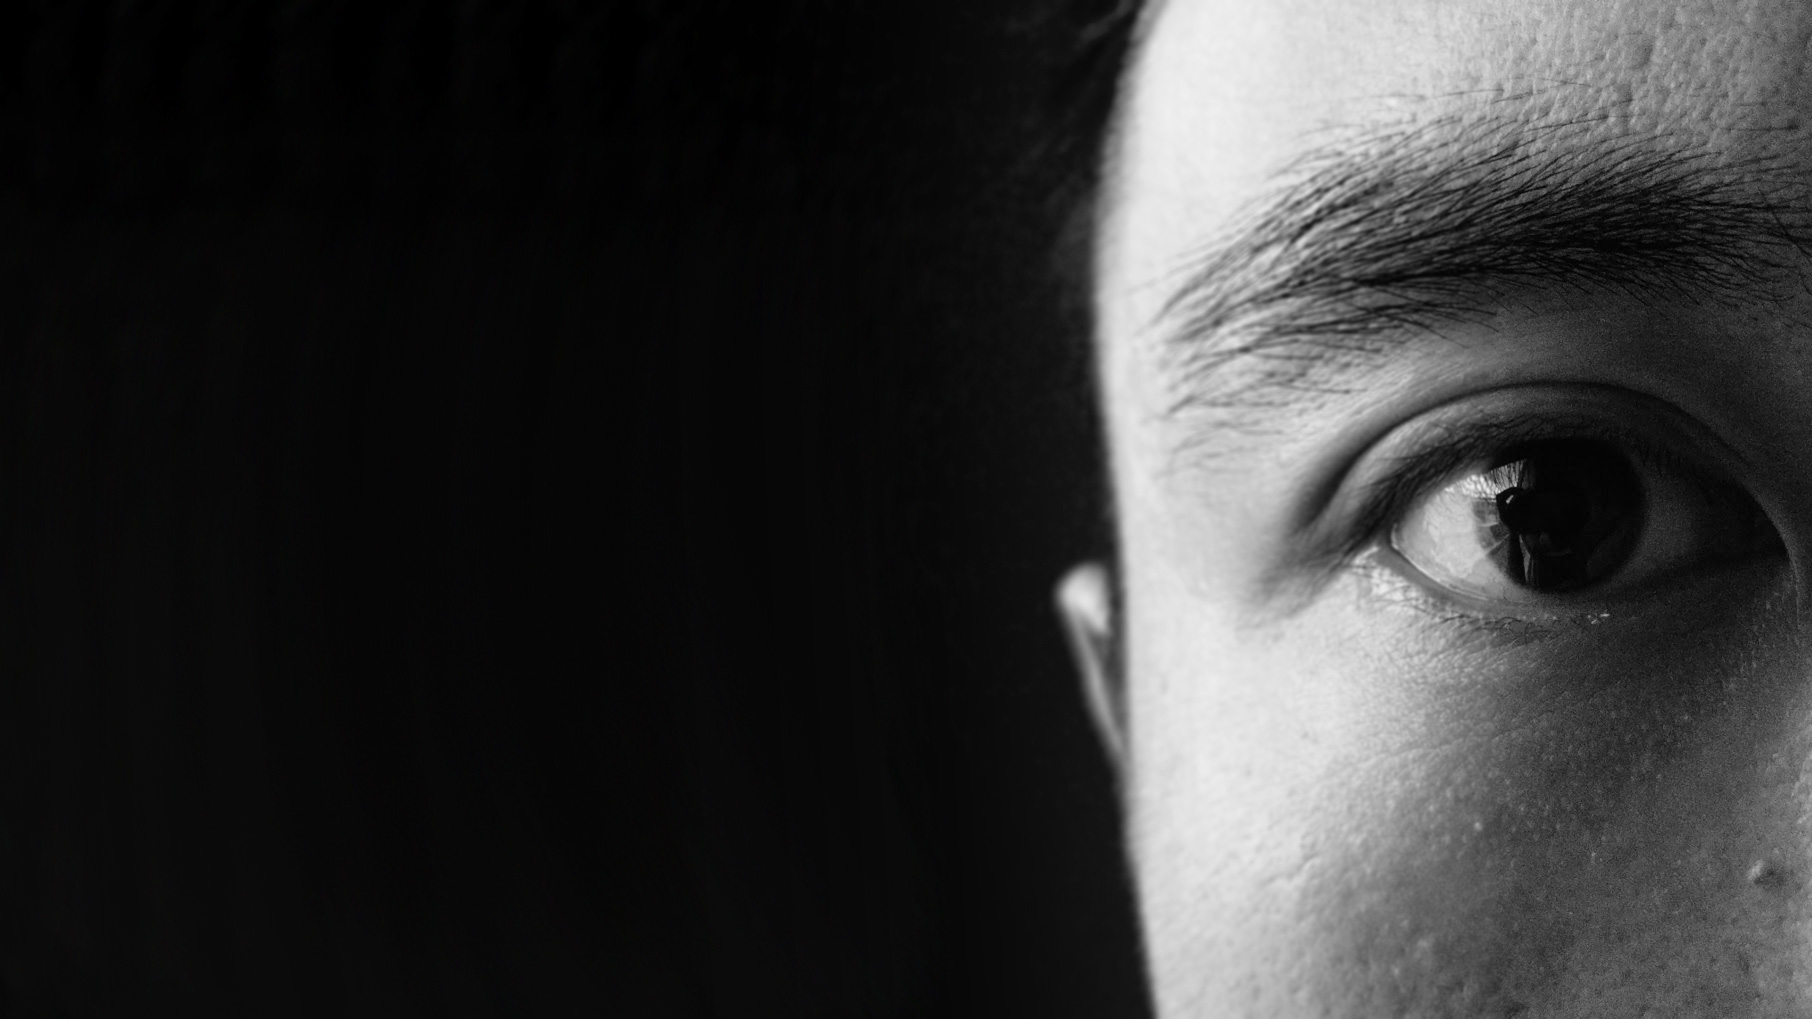
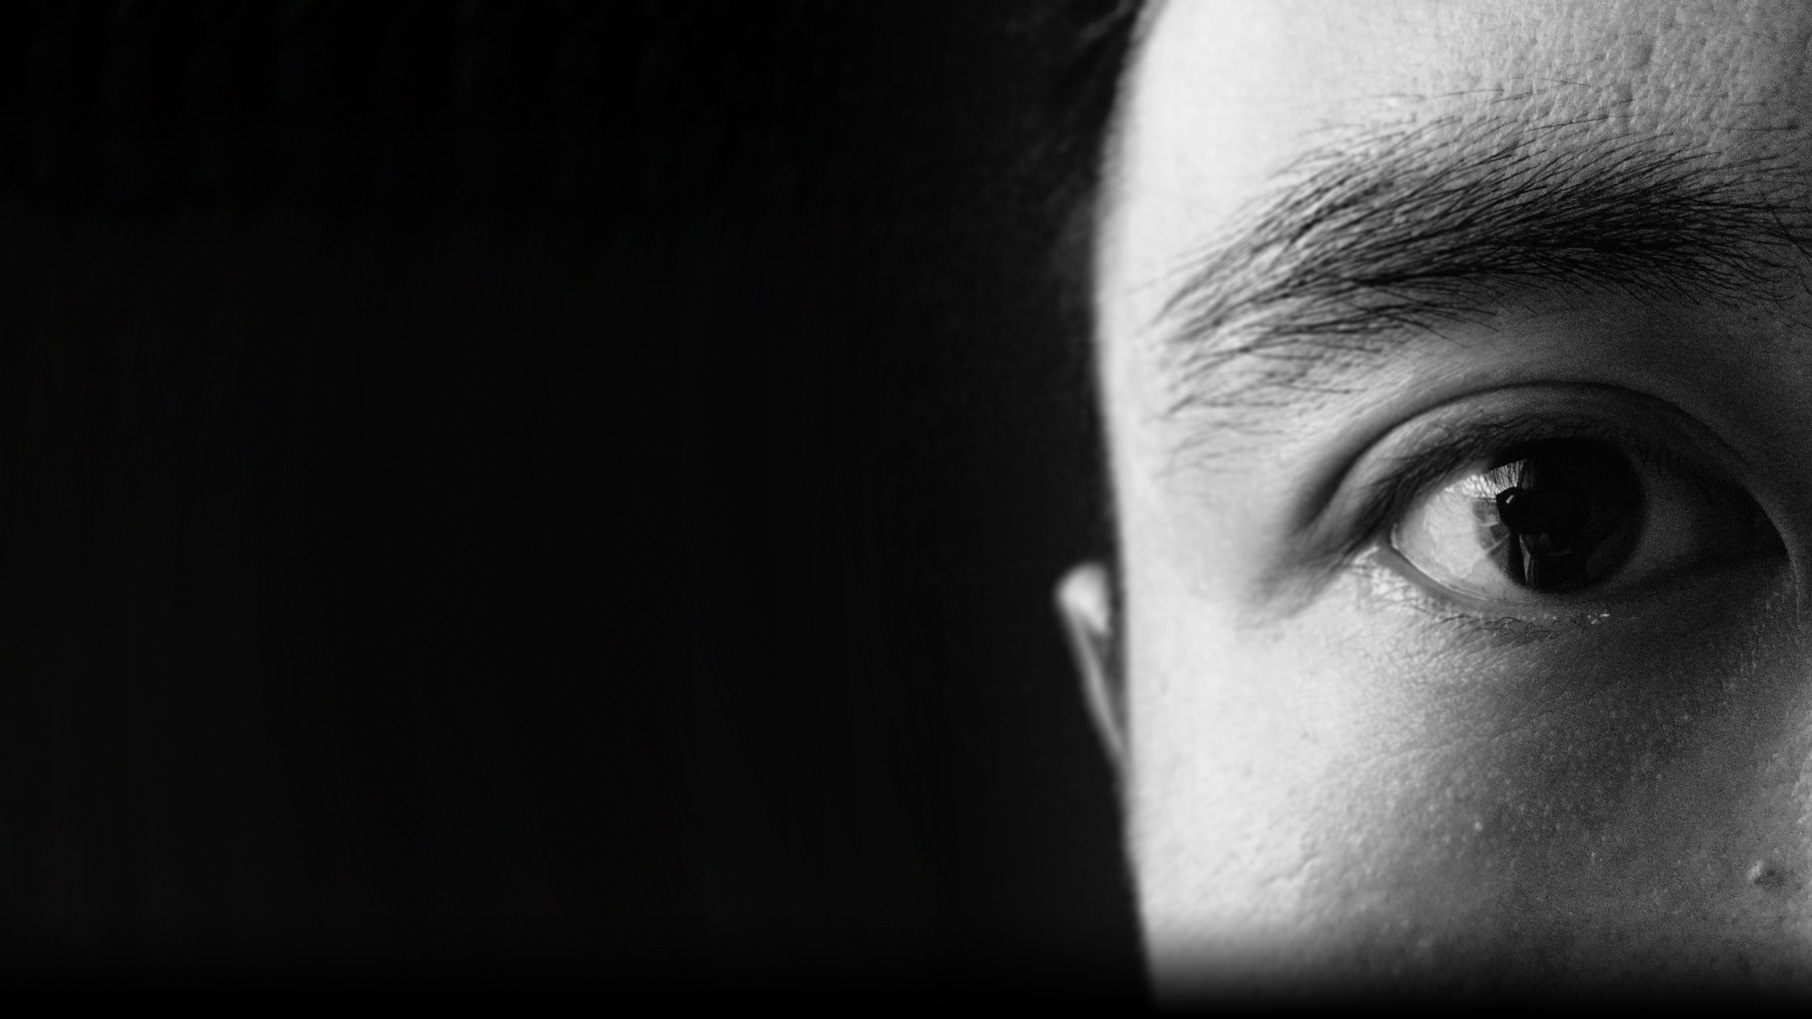
新增手機版小尺寸背景圖
index, css 小修改

Changed region(s): [[0.6181, 0.8822, 1.0, 1.0]]

diff --git a/script/css_01.css b/script/css_01.css
@@ -380,7 +380,7 @@ body {
 	position:relative;
 	width:auto;
 	height:773px;
-	background-image:url(../images/background_about.jpg);
+	background-image:url(../images/background_about_m.jpg);
 	background-repeat:no-repeat;
 	background-size:cover;
 	background-position:right;
@@ -402,7 +402,7 @@ body {
 	position:relative;
 	width:auto;
 	height:773px;
-	background-image:url(../images/background_painting.jpg);
+	background-image:url(../images/background_painting_m.jpg);
 	background-repeat:no-repeat;
 	background-size:cover;
 	background-position:center;
@@ -429,7 +429,7 @@ body {
 	position:relative;
 	width:auto;
 	height:773px;
-	background-image:url(../images/background_photography.jpg);
+	background-image:url(../images/background_photography_m.jpg);
 	background-repeat:no-repeat;
 	background-size:cover;
 	background-position:70% 10%;
@@ -455,7 +455,7 @@ body {
 	position:relative;
 	width:auto;
 	height:773px;
-	background-image:url(../images/background_contact.jpg);
+	background-image:url(../images/background_contact_m.jpg);
 	background-repeat:no-repeat;
 	background-size:cover;
 	background-position:left;

diff --git a/index.html b/index.html
@@ -4,7 +4,7 @@
 <meta charset="utf-8">
 <meta name="viewport" content="width=device-width; initial-scale=1.0; maximum-scale=1.0; user-scalable=0;">
 <title>Yoz Portfolio</title>
-<link href="script/css_01.css" rel="stylesheet" type="text/css">
+<link rel="stylesheet" href="script/css_01.css"  type="text/css">
 <link rel="stylesheet" href="script/photoswipe.css"> <!--Photoswipe-->
 <link rel="stylesheet" href="script/default-skin.css"> <!--Photoswipe-->
 <script src="script/photoswipe.min.js"></script> <!--Photoswipe-->
